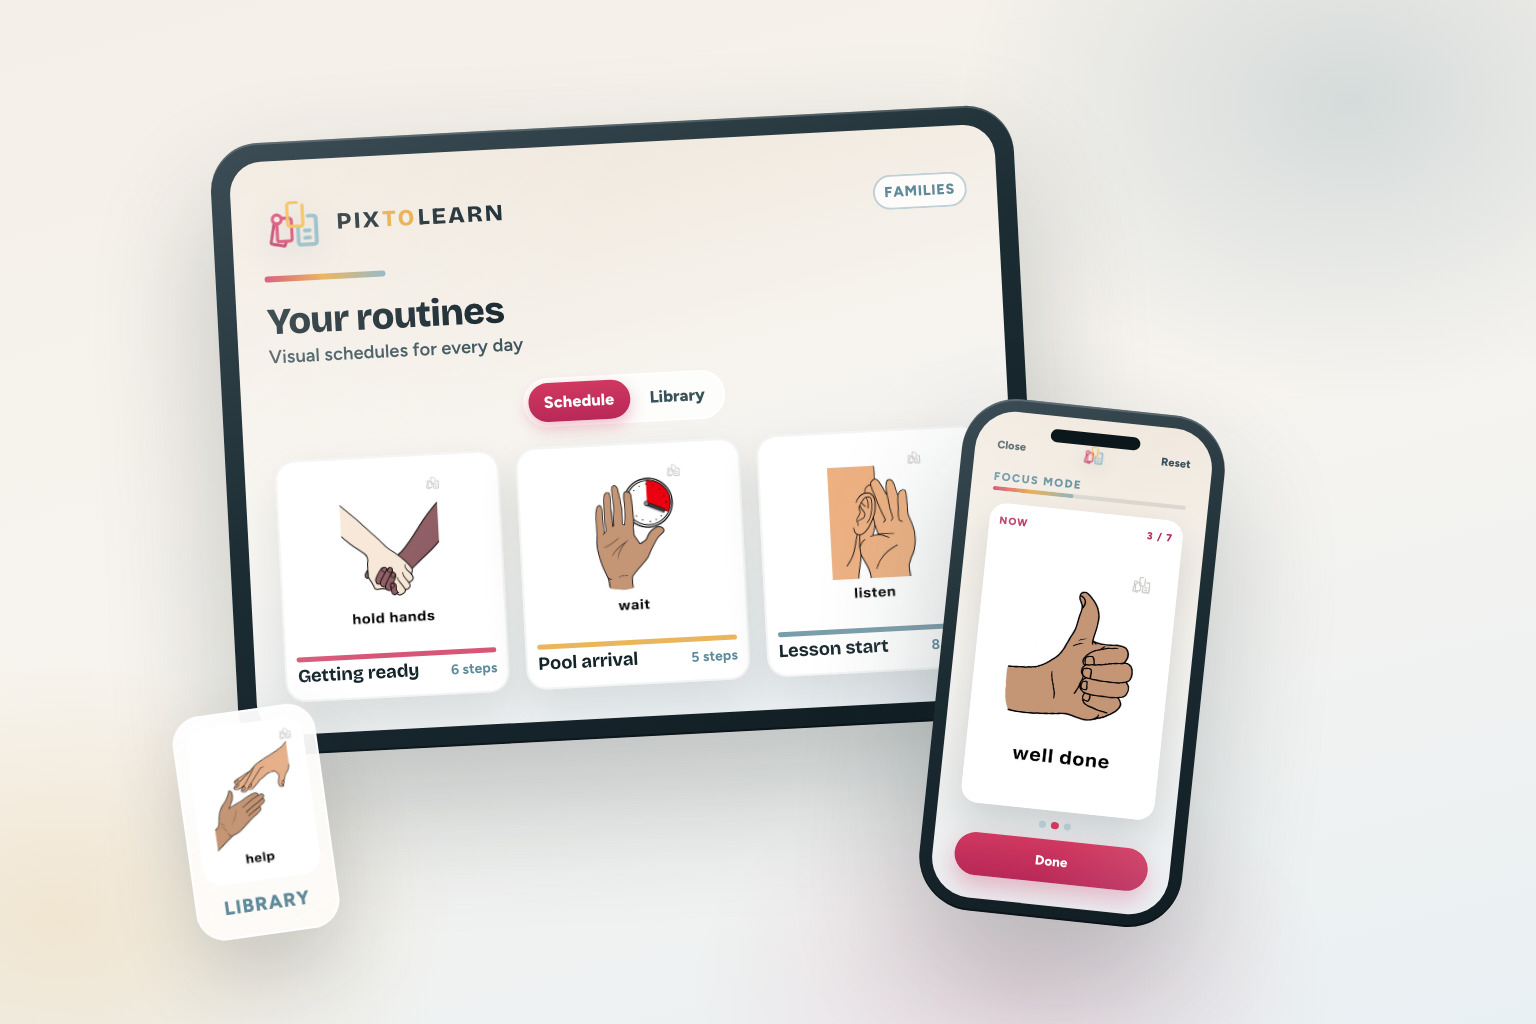
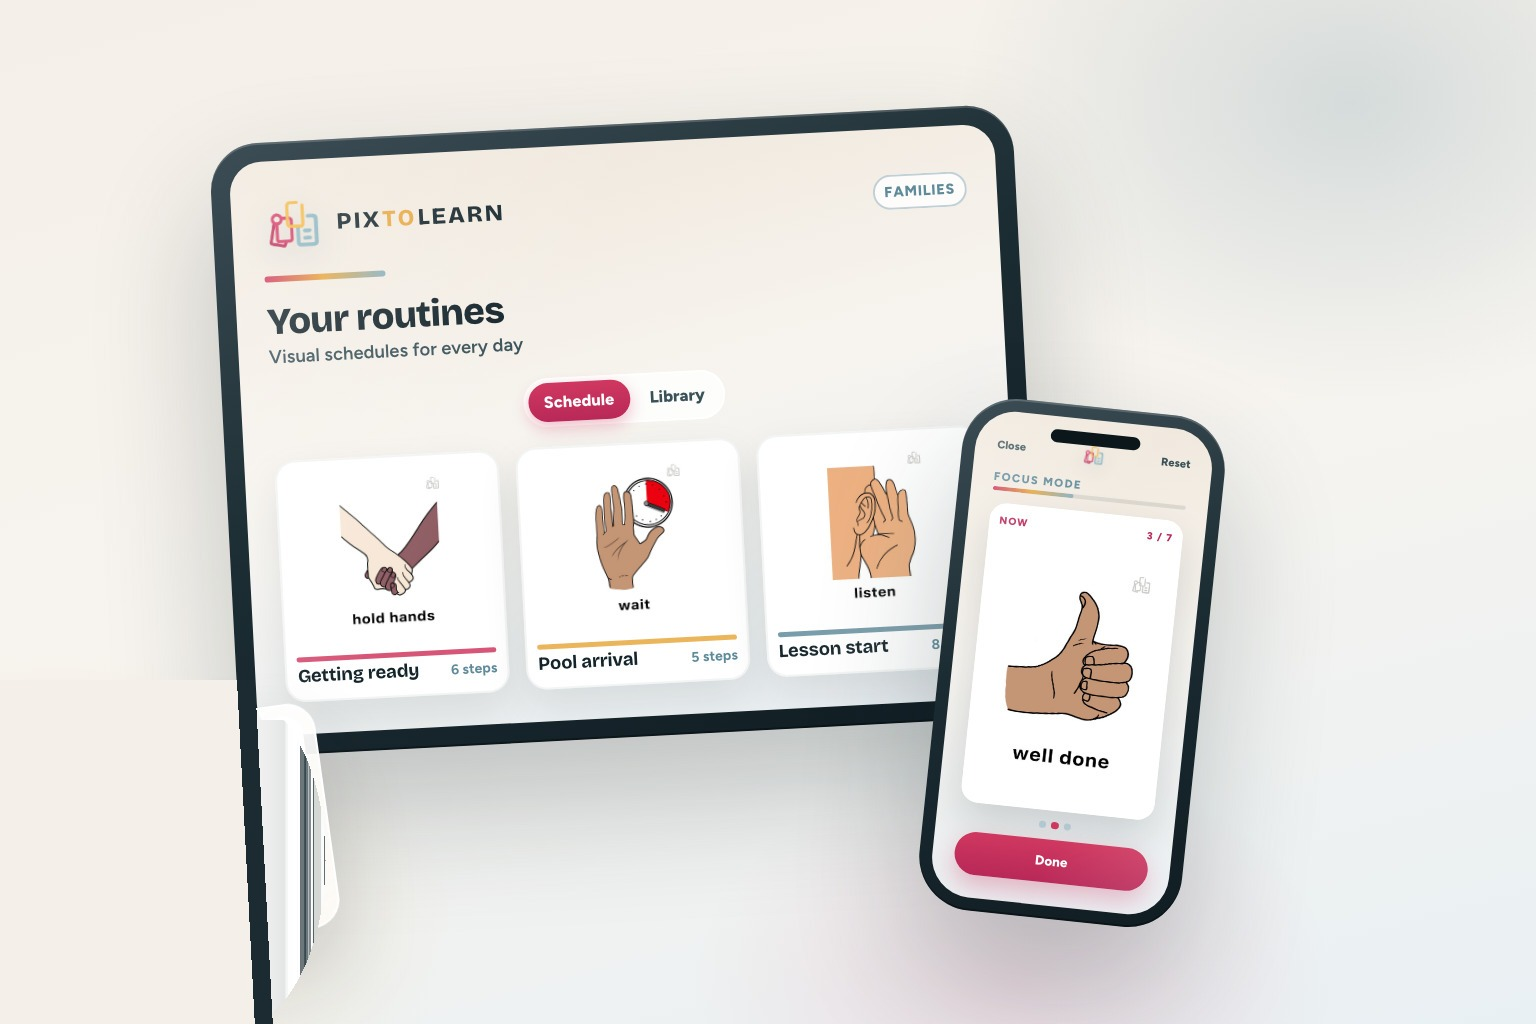
Remove floating LIBRARY keyring from App device mockup
Keep only the iPad and iPhone in hero-app.jpg and bust caches so the
home path tile and shared App references pick up the clean asset.

Changed region(s): [[0.0938, 0.6875, 0.2188, 1.0], [0.125, 0.6562, 0.1562, 0.6875]]

diff --git a/learn/course/neurodiversity-visual-specialist/module-4/index.html b/learn/course/neurodiversity-visual-specialist/module-4/index.html
@@ -47,7 +47,7 @@
         <h2>Same symbols across home, bag and rehearsal</h2>
         <p>See WOW at home, a Keyring out of home, and App Focus rehearsing the same next step.</p>
         <div class="mod-video is-placeholder" role="img" aria-label="Video placeholder">
-          <img src="/assets/photos/hero-app.jpg" alt="" />
+          <img src="/assets/photos/hero-app.jpg?v=2" alt="" />
           <div class="mod-video-ph">
             <strong>Video to film</strong>
             <span>Mini tour: WOW morning strip, Keyring in bag, App Focus preview. Same symbols. 75-90s.</span>
@@ -80,7 +80,7 @@
         <h2>What would you do?</h2>
         <div class="mod-case-scene">
           <figure>
-            <img src="/assets/photos/hero-app.jpg" alt="" />
+            <img src="/assets/photos/hero-app.jpg?v=2" alt="" />
             <figcaption>Home, school and pool using different drawings for the same step.</figcaption>
           </figure>
           <div>
@@ -101,7 +101,7 @@
           <ul class="mod-takeaway-list"><li><label><input type="checkbox" data-takeaway /> Map tools: home (WOW), outings (Keyring), wet/skill (Packs), rehearsal (App)</label></li><li><label><input type="checkbox" data-takeaway /> Photograph one active strip for handover</label></li><li><label><input type="checkbox" data-takeaway /> Mirror that strip in App Focus for one week</label></li></ul>
           <p class="learn-muted" data-checklist-note>0 ready.</p>
           <a class="mod-product-link" href="/app.html">
-            <img src="/assets/photos/hero-app.jpg" alt="" />
+            <img src="/assets/photos/hero-app.jpg?v=2" alt="" />
             <span><strong>PixtoLearn App Focus</strong><span>Rehearse the same sequence before the hard environment.</span></span>
           </a>
         </div>

diff --git a/learn/course/using-pixtolearn-packs-and-app/module-4/index.html b/learn/course/using-pixtolearn-packs-and-app/module-4/index.html
@@ -46,7 +46,7 @@
         <h2>App Focus walkthrough</h2>
         <p>Choose a sequence, enter Focus, rehearse, then use the same order live.</p>
         <div class="mod-video is-placeholder" role="img" aria-label="Video placeholder">
-          <img src="/assets/photos/hero-app.jpg" alt="" />
+          <img src="/assets/photos/hero-app.jpg?v=2" alt="" />
           <div class="mod-video-ph">
             <strong>Video to film</strong>
             <span>Screencast App + cut to learner preview before session. 60-75s.</span>
@@ -78,7 +78,7 @@
         <h2>What would you do?</h2>
         <div class="mod-case-scene">
           <figure>
-            <img src="/assets/photos/hero-app.jpg" alt="" />
+            <img src="/assets/photos/hero-app.jpg?v=2" alt="" />
             <figcaption>Anxious learner before a session.</figcaption>
           </figure>
           <div>
@@ -99,7 +99,7 @@
           <ul class="mod-takeaway-list"><li><label><input type="checkbox" data-takeaway /> Open one Focus sequence</label></li><li><label><input type="checkbox" data-takeaway /> Align it with your physical cards</label></li><li><label><input type="checkbox" data-takeaway /> Rehearse once before the live session</label></li></ul>
           <p class="learn-muted" data-checklist-note>0 ready.</p>
           <a class="mod-product-link" href="/app.html">
-            <img src="/assets/photos/hero-app.jpg" alt="" />
+            <img src="/assets/photos/hero-app.jpg?v=2" alt="" />
             <span><strong>PixtoLearn App</strong><span>Digital visual support for structured Focus sessions.</span></span>
           </a>
         </div>

diff --git a/learn/course/neurodiversity-visual-specialist/module-13/index.html b/learn/course/neurodiversity-visual-specialist/module-13/index.html
@@ -47,7 +47,7 @@
         <h2>Same strip in two settings</h2>
         <p>The same leaving or settle sequence appears at a home door and again with a TA or instructor, plus an App copy.</p>
         <div class="mod-video is-placeholder" role="img" aria-label="Video placeholder">
-          <img src="/assets/photos/hero-app.jpg" alt="" />
+          <img src="/assets/photos/hero-app.jpg?v=2" alt="" />
           <div class="mod-video-ph">
             <strong>Video to film</strong>
             <span>Mini tour: same visual language in two settings. End: Packs for place-based use, App for portable Focus. 75-90s.</span>
@@ -101,7 +101,7 @@
           <ul class="mod-takeaway-list"><li><label><input type="checkbox" data-takeaway /> List every adult who supports one learner this week</label></li><li><label><input type="checkbox" data-takeaway /> Choose one shared strip and photograph it</label></li><li><label><input type="checkbox" data-takeaway /> Complete a one-page team agreement (owner, vocabulary, App copy)</label></li></ul>
           <p class="learn-muted" data-checklist-note>0 ready.</p>
           <a class="mod-product-link" href="/app.html">
-            <img src="/assets/photos/hero-app.jpg" alt="" />
+            <img src="/assets/photos/hero-app.jpg?v=2" alt="" />
             <span><strong>App as portable source of truth</strong><span>Same symbols for home, school, therapy and leisure handovers.</span></span>
           </a>
         </div>

diff --git a/academy.html b/academy.html
@@ -335,7 +335,7 @@
 
           <article class="aca-path-course">
             <div class="aca-path-media">
-              <img src="assets/photos/hero-app.jpg" alt="PixtoLearn App interface on tablet and phone" loading="lazy" />
+              <img src="assets/photos/hero-app.jpg?v=2" alt="PixtoLearn App interface on tablet and phone" loading="lazy" />
               <span class="aca-path-num">02</span>
             </div>
             <div class="aca-path-body">
@@ -344,7 +344,7 @@
               <p>Swimming cards, WOW routines and App Focus as one repeatable system.</p>
               <div class="btn-row">
                 <a class="btn btn-primary" href="learn/course/using-pixtolearn-packs-and-app/index.html">Open</a>
-                <a class="btn btn-ghost" href="cart.html" data-aca-buy data-product-id="aca-packs-app" data-product-name="Academy: Using PixtoLearn Packs and App" data-product-price="29" data-product-image="assets/photos/hero-app.jpg" data-product-href="learn/course/using-pixtolearn-packs-and-app/index.html">Buy &pound;29</a>
+                <a class="btn btn-ghost" href="cart.html" data-aca-buy data-product-id="aca-packs-app" data-product-name="Academy: Using PixtoLearn Packs and App" data-product-price="29" data-product-image="assets/photos/hero-app.jpg?v=2" data-product-href="learn/course/using-pixtolearn-packs-and-app/index.html">Buy &pound;29</a>
               </div>
             </div>
           </article>

diff --git a/learn/course/neurodiversity-visual-specialist/module-10/index.html b/learn/course/neurodiversity-visual-specialist/module-10/index.html
@@ -47,7 +47,7 @@
         <h2>Preview tonight, Keyring tomorrow</h2>
         <p>A family rehearses a haircut or shop sequence on App Focus, then carries the same steps on a Keyring.</p>
         <div class="mod-video is-placeholder" role="img" aria-label="Video placeholder">
-          <img src="/assets/photos/hero-app.jpg" alt="" />
+          <img src="/assets/photos/hero-app.jpg?v=2" alt="" />
           <div class="mod-video-ph">
             <strong>Video to film</strong>
             <span>Bag Focus preview of a GP or shop visit, then Keyring wait/break/change cards in a bag. 75s. No distress spectacle.</span>
@@ -80,7 +80,7 @@
         <h2>What would you do?</h2>
         <div class="mod-case-scene">
           <figure>
-            <img src="/assets/photos/hero-app.jpg" alt="" />
+            <img src="/assets/photos/hero-app.jpg?v=2" alt="" />
             <figcaption>An outing collapses when the plan changes.</figcaption>
           </figure>
           <div>

diff --git a/learn/course/neurodiversity-visual-specialist/module-9/index.html b/learn/course/neurodiversity-visual-specialist/module-9/index.html
@@ -100,7 +100,7 @@
           <ul class="mod-takeaway-list"><li><label><input type="checkbox" data-takeaway /> Write a start / work / break / finished strip for your next session</label></li><li><label><input type="checkbox" data-takeaway /> Hide or cover unused materials before the learner enters</label></li><li><label><input type="checkbox" data-takeaway /> Send one photo or App copy to family or school the same day</label></li></ul>
           <p class="learn-muted" data-checklist-note>0 ready.</p>
           <a class="mod-product-link" href="/app.html">
-            <img src="/assets/photos/hero-app.jpg" alt="" />
+            <img src="/assets/photos/hero-app.jpg?v=2" alt="" />
             <span><strong>App Focus for therapy handover</strong><span>The same sequence the family can rehearse between sessions.</span></span>
           </a>
         </div>

diff --git a/learn/course/visual-teaching-foundations/module-3/index.html b/learn/course/visual-teaching-foundations/module-3/index.html
@@ -99,7 +99,7 @@
           <ul class="mod-takeaway-list"><li><label><input type="checkbox" data-takeaway /> Write your prompt ladder on one card</label></li><li><label><input type="checkbox" data-takeaway /> Practise one wait of 3-5 seconds today</label></li><li><label><input type="checkbox" data-takeaway /> Share the ladder with one teammate</label></li></ul>
           <p class="learn-muted" data-checklist-note>0 ready.</p>
           <a class="mod-product-link" href="/app.html">
-            <img src="/assets/photos/hero-app.jpg" alt="" />
+            <img src="/assets/photos/hero-app.jpg?v=2" alt="" />
             <span><strong>PixtoLearn App</strong><span>Digital Focus sessions help teams rehearse the same sequence.</span></span>
           </a>
         </div>

diff --git a/learn/course/using-pixtolearn-packs-and-app/module-1/index.html b/learn/course/using-pixtolearn-packs-and-app/module-1/index.html
@@ -46,7 +46,7 @@
         <h2>Packs and App side by side</h2>
         <p>See physical cards for place-based teaching and the App for portable Focus.</p>
         <div class="mod-video is-placeholder" role="img" aria-label="Video placeholder">
-          <img src="/assets/photos/hero-app.jpg" alt="" />
+          <img src="/assets/photos/hero-app.jpg?v=2" alt="" />
           <div class="mod-video-ph">
             <strong>Video to film</strong>
             <span>Product table top: Full Pack + phone App. Cuts for pool / home / travel. 60s.</span>

diff --git a/learn/course/using-pixtolearn-packs-and-app/index.html b/learn/course/using-pixtolearn-packs-and-app/index.html
@@ -40,7 +40,7 @@
             <a class="learn-btn learn-btn-ghost" href="/learn/catalog.html">Catalogue</a>
           </div>
         </div>
-        <figure class="course-hub-hero-media"><img src="/assets/photos/hero-app.jpg" alt="" /></figure>
+        <figure class="course-hub-hero-media"><img src="/assets/photos/hero-app.jpg?v=2" alt="" /></figure>
       </div>
     </section>
     <section class="learn-section"><div class="learn-wrap">

diff --git a/index.html b/index.html
@@ -91,7 +91,7 @@
           </a>
           <a class="home-path reveal" href="app.html">
             <div class="home-path-media">
-              <img src="assets/photos/hero-app.jpg" alt="" loading="lazy" />
+              <img src="assets/photos/hero-app.jpg?v=2" alt="" loading="lazy" />
             </div>
             <p class="home-path-kicker">Focus sessions</p>
             <h3>PixtoLearn App</h3>

diff --git a/shop.html b/shop.html
@@ -134,7 +134,7 @@
     <div class="wrap">
       <article class="shop-app reveal">
         <div class="shop-app-media" aria-hidden="true">
-          <img src="assets/photos/hero-app.jpg" alt="" />
+          <img src="assets/photos/hero-app.jpg?v=2" alt="" />
         </div>
         <div class="shop-app-copy">
           <div class="shop-app-badge">
